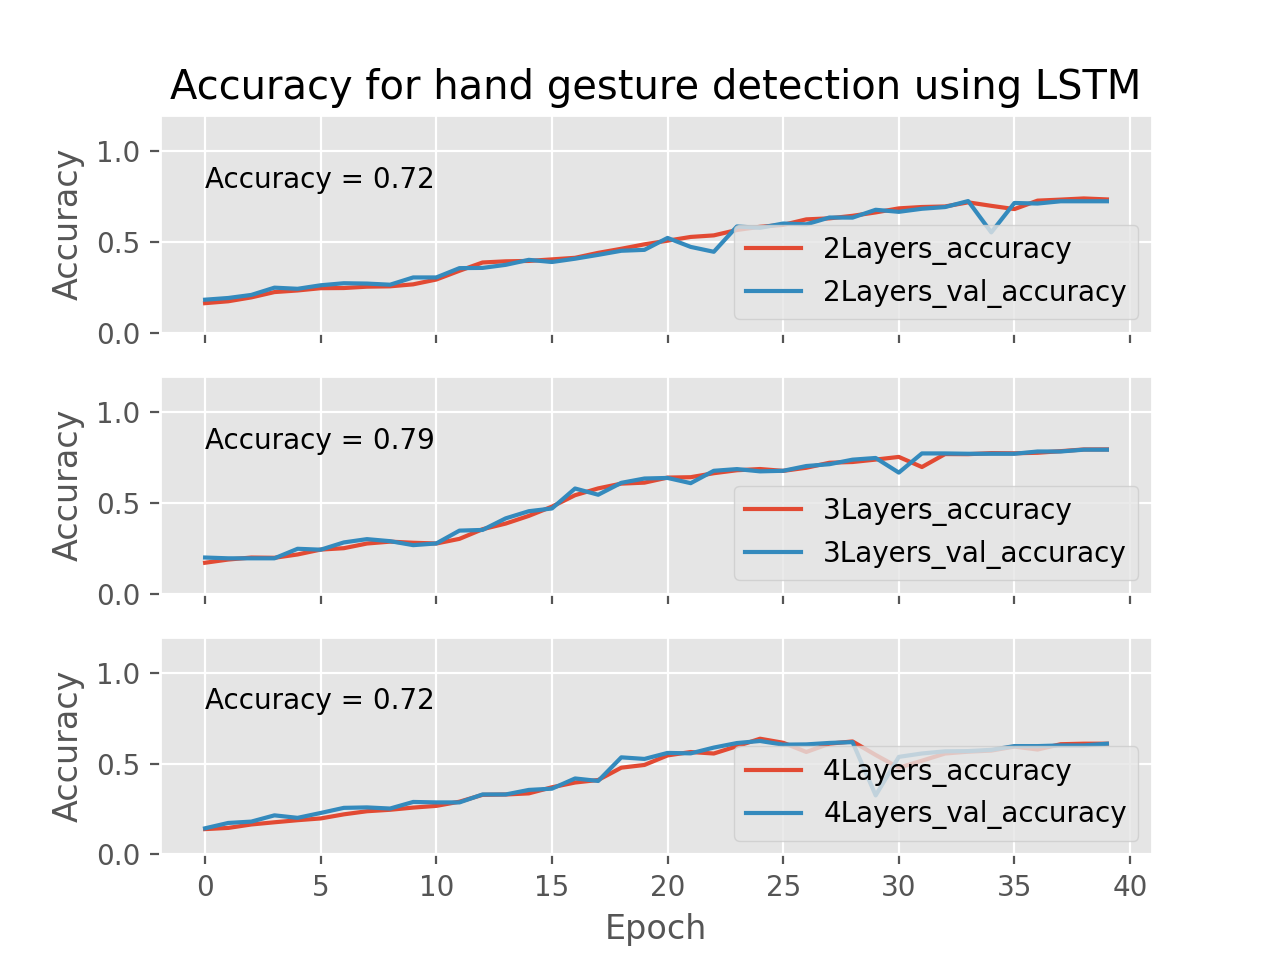
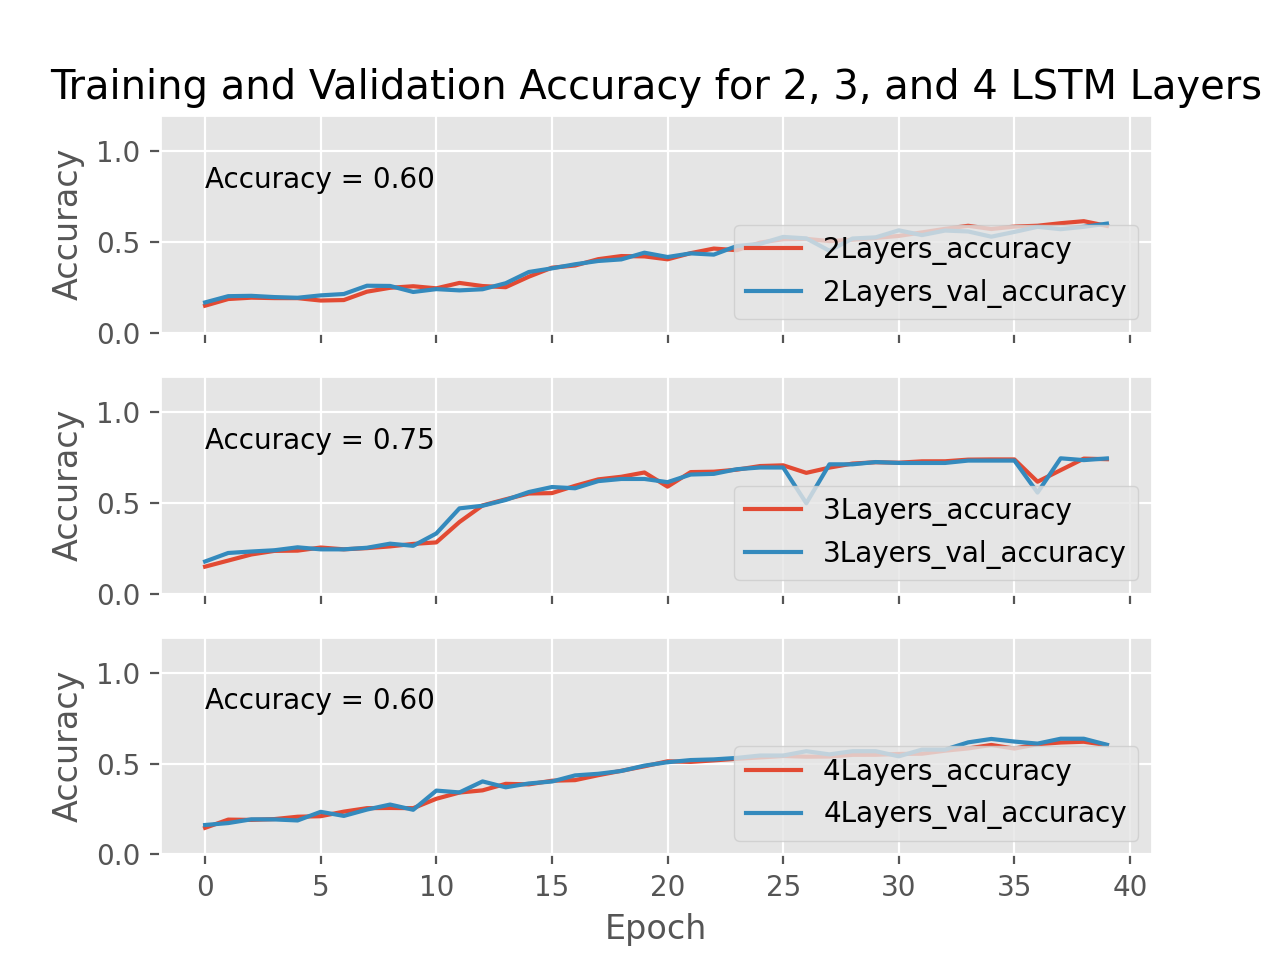
changed the title of the figures

diff --git a/TrainLSTM.py b/TrainLSTM.py
@@ -183,8 +183,8 @@ with open("label2.csv", "r") as file:
 #x2 = np.array(data2)
 
 #for testing uncomment these lines
-x = np.load("data.npy")
-labels = np.load("labels.npy")
+x = np.load("dataTrainingSet3Pose.npy")
+labels = np.load("labelsTrainingSet3Pose.npy")
 print(x.shape)
 
 # uncomment the following line when trainning 
@@ -229,7 +229,7 @@ l1l2=regularizers.L1L2(l1=1e-4, l2=1e-5)
 
 # # model with 1 LSTM Layer
 # model1 = Sequential()
-# model1.add(LSTM(128,return_sequences=True,kernel_regularizer= l2, activation='elu', input_shape=(28,126)))
+# model1.add(LSTM(128,return_sequences=True,kernel_regularizer= l2, activation='elu', input_shape=(28,258)))
 # #model.add(LSTM(64,return_sequences=True, activation='relu', input_shape=(40,1662)))
 # #model.add(LSTM(64,return_sequences=True,kernel_regularizer= l2,  activation='elu'))
 # # model1.add(LSTM(32,return_sequences=False,kernel_regularizer= l2, activation='elu'))
@@ -272,7 +272,7 @@ l1l2=regularizers.L1L2(l1=1e-4, l2=1e-5)
 
 # model with 2 LSTM Layer
 model2 = Sequential()
-model2.add(LSTM(128,return_sequences=True,kernel_regularizer= l2, activation='elu', input_shape=(28,126)))
+model2.add(LSTM(128,return_sequences=True,kernel_regularizer= l2, activation='elu', input_shape=(28,258)))
 #model.add(LSTM(64,return_sequences=True, activation='relu', input_shape=(40,1662)))
 #model.add(LSTM(64,return_sequences=True,kernel_regularizer= l2,  activation='elu'))
 model2.add(LSTM(32,return_sequences=False,kernel_regularizer= l2, activation='elu'))
@@ -289,7 +289,7 @@ history = model2.fit(x_train, y_train, epochs=40,  validation_data = (x_test,y_t
 model2.save('GestureRecognition_2layers.h5')
 
 fig, (axis1,axis2,axis3) = plt.subplots(nrows=3,ncols=1,sharex=True)
-axis1.set_title("Accuracy for hand gesture detection using LSTM")
+axis1.set_title("Training and Validation Accuracy for 2, 3, and 4 LSTM Layers")
 axis1.plot(history.history["categorical_accuracy"], label="2Layers_accuracy  ")
 axis1.plot(history.history["val_categorical_accuracy"], label="2Layers_val_accuracy")
 axis1.set_ylabel("Accuracy")
@@ -313,7 +313,7 @@ axis1.text(0,0.8,'Accuracy = %.2f' %accuracy_score(ytrue,yhat))
 
 # model with 3 LSTM Layer
 model3 = Sequential()
-model3.add(LSTM(128,return_sequences=True,kernel_regularizer= l2, activation='elu', input_shape=(28,126)))
+model3.add(LSTM(128,return_sequences=True,kernel_regularizer= l2, activation='elu', input_shape=(28,258)))
 #model.add(LSTM(64,return_sequences=True, activation='relu', input_shape=(40,1662)))
 model3.add(LSTM(64,return_sequences=True,kernel_regularizer= l2,  activation='elu'))
 model3.add(LSTM(32,return_sequences=False,kernel_regularizer= l2, activation='elu'))
@@ -353,7 +353,7 @@ axis2.text(0,0.8,'Accuracy = %.2f' %accuracy_score(ytrue,yhat))
 
 #model with 4 LSTM layer
 model4 = Sequential()
-model4.add(LSTM(128,return_sequences=True,kernel_regularizer= l2, activation='elu', input_shape=(28,126)))
+model4.add(LSTM(128,return_sequences=True,kernel_regularizer= l2, activation='elu', input_shape=(28,258)))
 #model.add(LSTM(64,return_sequences=True, activation='relu', input_shape=(40,1662)))
 model4.add(LSTM(64,return_sequences=True,kernel_regularizer= l2,  activation='elu'))
 model4.add(LSTM(32,return_sequences=True,kernel_regularizer= l2, activation='elu'))
@@ -391,4 +391,4 @@ print(accuracy_score(ytrue,yhat))
 print({name: accuracy_score(np.array(ytrue) == i, np.array(yhat) == i) for i, name in enumerate(controlActions)})
 axis3.text(0,0.8,'Accuracy = %.2f' %accuracy_score(ytrue,yhat))
 
-plt.savefig("HandLandmark_1Ex5.png",dpi=200)
+plt.savefig("poseLandmark_1Ex5.png",dpi=200)
